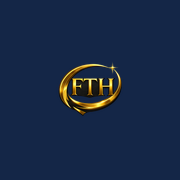
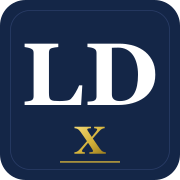
Revert FTH co-branding — LDX Capital stands on its own
LDX Capital (LD Realty Capital, LLC) is a distinct operating company from
FTH Trading; the two are not parent/subsidiary. Removing every FTH mark and
'An FTH Trading Company' tag from the site, app, and client PDFs.

New LDX-only identity (typography-first, Blackstone/KKR institutional style):
- brand/ldx-nav.svg + ldx-nav-white.svg — wordmark for nav (light/dark bg)
- brand/ldx-lockup.svg + ldx-lockup-white.svg — full lockup with 'Commercial Real Estate Credit' subtitle
- brand/ldx-monogram.svg — navy square with LDX letterforms + gold accent
- Regenerated PWA icons (192/512/apple-touch/favicons) from the monogram
- PDF headers now use the LDX lockup only
- Description updated: 'A division of LD Realty Capital, LLC'
- SW cache bumped to v3

diff --git a/index.html b/index.html
@@ -37,11 +37,10 @@
   .navin a:hover{color:var(--navy)}
   .navin .cta{margin-left:auto;background:var(--navy);color:#fff;padding:9px 20px;border-radius:99px}
   .navin .cta:hover{background:var(--navy-d);color:#fff}
-  .logo-lockup{display:flex;align-items:center;gap:12px;text-decoration:none!important;margin-right:8px}
-  .logo-lockup img{height:38px;width:auto;display:block}
+  .logo-lockup{display:flex;align-items:center;text-decoration:none!important;margin-right:8px}
+  .logo-lockup img{height:40px;width:auto;display:block}
   .logo-word{font-family:Georgia,serif;font-size:20px;font-weight:700;letter-spacing:.06em;color:var(--navy);line-height:1}
-  .logo-word small{display:block;font-family:'Segoe UI',Helvetica,sans-serif;font-size:9.5px;font-weight:600;letter-spacing:.14em;color:var(--muted);text-transform:uppercase;margin-top:3px}
-  .logo-word .x{color:var(--accent)}
+  .logo-word .x{color:var(--gold)}
   .logo-word sup{font-size:8px;color:var(--muted)}
 
   /* ---------- hero ---------- */
@@ -146,9 +145,8 @@
 
 <!-- ================= NAV ================= -->
 <nav><div class="wrap navin">
-  <a class="logo-lockup" href="#top" aria-label="LDX Capital — an FTH Trading division">
-    <img src="brand/fth-logo-nav.png" alt="FTH Trading" width="76" height="38">
-    <span class="logo-word">LD<span class="x">X</span> CAPITAL<sup>™</sup><small>An FTH Trading Company</small></span>
+  <a class="logo-lockup" href="#top" aria-label="LDX Capital">
+    <img src="brand/ldx-nav.svg" alt="LDX Capital" height="34">
   </a>
   <a href="#programs">Loan Programs</a>
   <a href="#rails">Digital Capital</a>
@@ -312,10 +310,8 @@
 <footer><div class="wrap">
   <div class="cols">
     <div>
-      <img src="brand/fth-logo-footer.png" alt="FTH Trading" style="height:44px;width:auto;display:block;margin-bottom:12px">
-      <div class="logo-word" style="color:#fff;font-size:19px;margin-bottom:6px;line-height:1">LD<span class="x" style="color:var(--sky)">X</span> CAPITAL<sup style="color:#7288ad">™</sup></div>
-      <div style="font-family:'Segoe UI',Helvetica,sans-serif;font-size:10.5px;font-weight:600;letter-spacing:.14em;color:#7288ad;text-transform:uppercase;margin-bottom:12px">An FTH Trading Company</div>
-      <p style="font-size:12.5px;line-height:1.7">Institutional commercial real estate credit across traditional and tokenized capital markets. Qualified custody at BitGo Bank &amp; Trust, N.A. Pool infrastructure built for Centrifuge.</p>
+      <img src="brand/ldx-lockup-white.svg" alt="LDX Capital" style="height:52px;width:auto;display:block;margin-bottom:14px">
+      <p style="font-size:12.5px;line-height:1.7">A division of LD Realty Capital, LLC. Institutional commercial real estate credit across traditional and tokenized capital markets. Qualified custody at BitGo Bank &amp; Trust, N.A. Pool infrastructure built for Centrifuge.</p>
     </div>
     <div><h5>Programs</h5><a href="#programs">Permanent</a><a href="#programs">Bridge</a><a href="#programs">Construction</a><a href="#programs">Mezzanine</a><a href="#programs">C-PACE</a><a href="#programs">SBA 7(a)</a></div>
     <div><h5>Digital</h5><a href="#rails">How It Works</a><a href="#tokenization">Tokenization</a><a href="#tokenization">Stablecoin Rails</a><a href="#blog">Insights</a></div>

diff --git a/pdfs/_print.css b/pdfs/_print.css
@@ -21,12 +21,8 @@ li{margin-bottom:4px}
 strong{color:var(--navy-d)}
 a{color:var(--accent);text-decoration:none}
 .kicker{font-family:'Segoe UI',Helvetica,sans-serif;font-size:10pt;font-weight:800;letter-spacing:.22em;text-transform:uppercase;color:var(--accent);margin-bottom:6px}
-.brand{display:flex;align-items:center;gap:14px;margin-bottom:8px}
-.brand img{height:44px;width:auto;display:block}
-.brand svg{flex:0 0 38px}
-.brand .name{font-size:16pt;font-weight:700;color:var(--navy);letter-spacing:.06em;line-height:1.1}
-.brand .name em{color:var(--accent);font-style:normal}
-.brand .name .parent{display:block;font-family:'Segoe UI',Helvetica,sans-serif;font-size:8.5pt;font-weight:600;letter-spacing:.14em;color:var(--muted);text-transform:uppercase;margin-top:3px}
+.brand{display:flex;align-items:center;margin-bottom:12px}
+.brand img{height:56px;width:auto;display:block}
 .callout{background:var(--bg2);border-left:4px solid var(--accent);padding:12px 16px;margin:14px 0;font-size:11.5pt;color:var(--ink2)}
 table{width:100%;border-collapse:collapse;margin:12px 0 18px;font-size:11pt;font-family:'Segoe UI',Helvetica,sans-serif}
 th{background:var(--navy);color:#fff;text-align:left;padding:9px 11px;font-size:9.5pt;text-transform:uppercase;letter-spacing:.08em}

diff --git a/app/app.css b/app/app.css
@@ -15,9 +15,8 @@ input,select,textarea,button{font-family:inherit;font-size:14px}
 
 /* topbar */
 .topbar{position:sticky;top:0;z-index:20;background:#fff;border-bottom:1px solid var(--border);display:flex;align-items:center;gap:14px;padding:10px 16px}
-.brand{display:flex;align-items:center;gap:10px;text-decoration:none;color:var(--navy);font-family:Georgia,serif;font-weight:700;font-size:16px;letter-spacing:.06em}
-.brand img{height:30px;width:auto;display:block}
-.brand em{color:var(--accent);font-style:normal}
+.brand{display:flex;align-items:center;text-decoration:none}
+.brand img{height:32px;width:auto;display:block}
 .topbar nav{display:flex;gap:4px;margin-left:auto;overflow-x:auto;flex-wrap:nowrap;max-width:100%;-webkit-overflow-scrolling:touch}
 .topbar nav button{background:transparent;border:none;padding:9px 13px;border-radius:8px;font-size:13px;color:var(--ink2);font-weight:600;cursor:pointer;white-space:nowrap}
 .topbar nav button.active{background:var(--navy);color:#fff}

diff --git a/app/sw.js b/app/sw.js
@@ -1,12 +1,13 @@
 /* LDX Capital PWA service worker — offline-first shell */
-const CACHE = 'ldx-app-v2';
+const CACHE = 'ldx-app-v3';
 const ASSETS = [
   './',
   './index.html',
   './app.css',
   './app.js',
   './manifest.webmanifest',
-  '../brand/fth-logo-nav.png',
+  '../brand/ldx-nav.svg',
+  '../brand/ldx-lockup.svg',
   '../icons/icon-192.png',
   '../icons/icon-512.png',
   '../icons/apple-touch-icon.png',

diff --git a/app/index.html b/app/index.html
@@ -17,9 +17,8 @@
 <body>
 
 <header class="topbar">
-  <a class="brand" href="../index.html">
-    <img src="../brand/fth-logo-nav.png" alt="FTH Trading" height="30">
-    <span>LD<em>X</em> CAPITAL</span>
+  <a class="brand" href="../index.html" aria-label="LDX Capital">
+    <img src="../brand/ldx-nav.svg" alt="LDX Capital" height="30">
   </a>
   <nav>
     <button data-tab="deal" class="active">Deal</button>

diff --git a/pdfs/LDC-Centrifuge-BitGo-Blueprint.html b/pdfs/LDC-Centrifuge-BitGo-Blueprint.html
@@ -8,8 +8,7 @@
 <body>
 
 <div class="brand">
-  <img src="fth-logo.png" alt="FTH Trading" height="44">
-  <div class="name">LD<em>X</em> CAPITAL<span class="parent">An FTH Trading Company</span></div>
+  <img src="ldx-lockup.svg" alt="LDX Capital" height="52">
 </div>
 
 <div class="kicker">Technical Platform Blueprint</div>

diff --git a/pdfs/_header.html b/pdfs/_header.html
@@ -1,5 +1,4 @@
 <!-- Shared header snippet — inline SVG mark + LDX wordmark. -->
 <div class="brand">
-  <img src="fth-logo.png" alt="FTH Trading" height="44">
-  <div class="name">LD<em>X</em> CAPITAL<span class="parent">An FTH Trading Company</span></div>
+  <img src="ldx-lockup.svg" alt="LDX Capital" height="52">
 </div>

diff --git a/pdfs/LDC-RWA-Funding-Explained.html b/pdfs/LDC-RWA-Funding-Explained.html
@@ -8,8 +8,7 @@
 <body>
 
 <div class="brand">
-  <img src="fth-logo.png" alt="FTH Trading" height="44">
-  <div class="name">LD<em>X</em> CAPITAL<span class="parent">An FTH Trading Company</span></div>
+  <img src="ldx-lockup.svg" alt="LDX Capital" height="52">
 </div>
 
 <div class="kicker">Capital Partner Briefing</div>

diff --git a/pdfs/LDC-Program-Charts-Traditional-and-RWA.html b/pdfs/LDC-Program-Charts-Traditional-and-RWA.html
@@ -8,8 +8,7 @@
 <body>
 
 <div class="brand">
-  <img src="fth-logo.png" alt="FTH Trading" height="44">
-  <div class="name">LD<em>X</em> CAPITAL<span class="parent">An FTH Trading Company</span></div>
+  <img src="ldx-lockup.svg" alt="LDX Capital" height="52">
 </div>
 
 <div class="kicker">Loan Program Reference</div>
